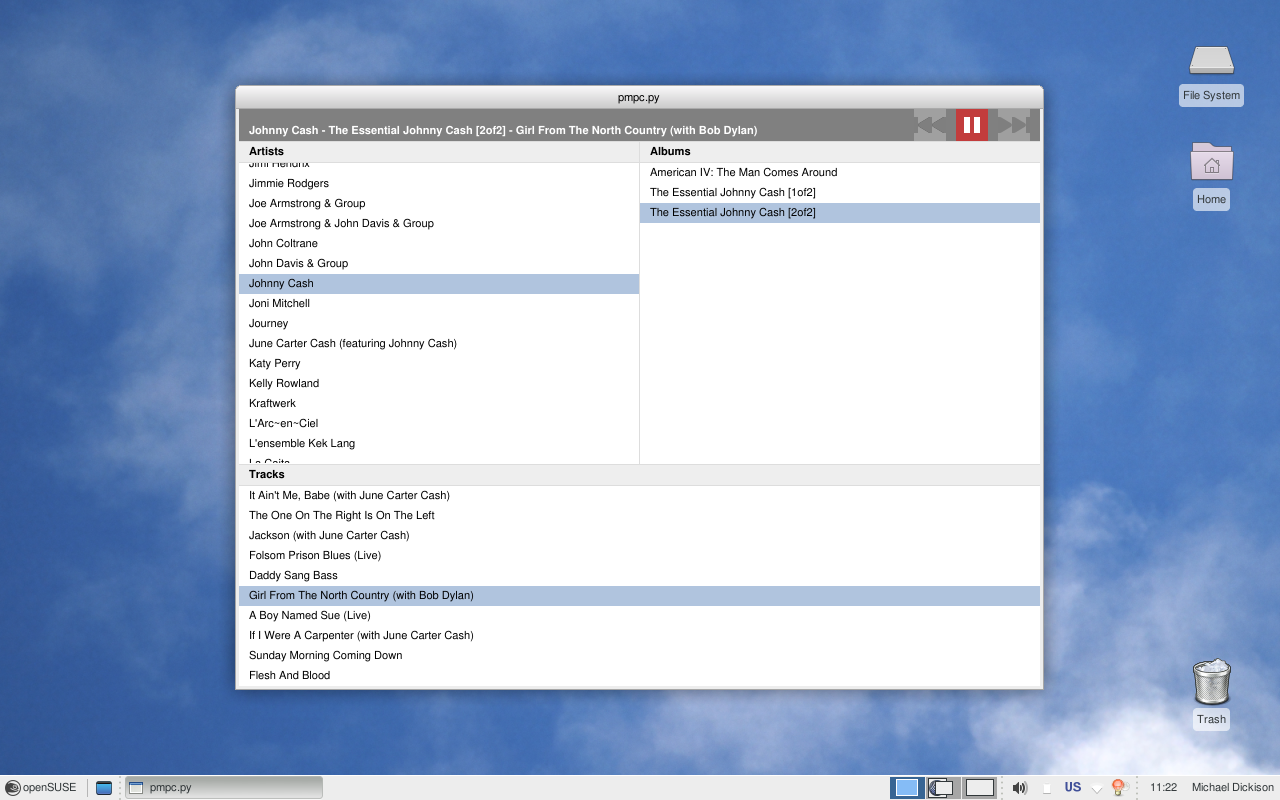
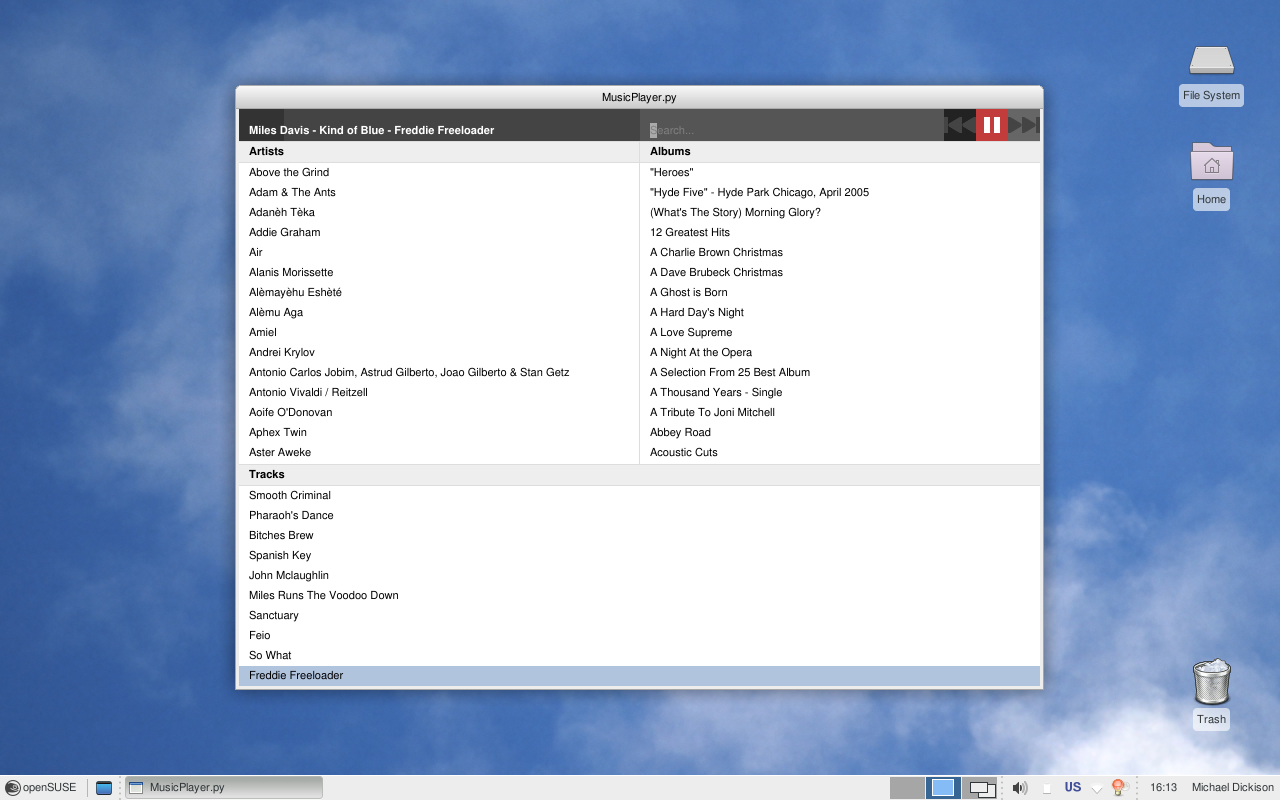
Added progress bar

Changed region(s): [[0.1875, 0.0938, 0.8125, 0.875], [0.6875, 0.9688, 0.7812, 1.0], [0.125, 0.9688, 0.1562, 1.0]]

diff --git a/Engine/MusicPlayer.qml b/Engine/MusicPlayer.qml
@@ -8,6 +8,12 @@ Column {
 		height: 32
 		color: '#444'
 		
+		Rectangle {
+			id: progressBar
+			height: topHeader.height
+			width: controller.songProgress * 400
+			color: '#333'
+		}
 		Text {
 			id: currentTrack
 			text: controller.currentSong

diff --git a/Engine/MusicPlayer.py b/Engine/MusicPlayer.py
@@ -3,7 +3,6 @@
 """
 To do:
 	- Set font and size (or set line height based on system font size).
-	- Show time left (align right?) (mpd.status()['time'] returns 'elapsed:duration')
 	- Reset filters. (Could be the first item in lists? Seems like the clean way to do it.)
 	- Sort better? (Unicode and 'The')
 	- Scrolling inertia is awfully heavy...
@@ -55,6 +54,7 @@ class MyController( QtCore.QObject ):
 	_currentSong = {}
 	appIsDone = False
 	onStateChanged = QtCore.Signal()
+	playProgress = QtCore.Signal()
 	
 	def doPolling( self ):
 		while not self.appIsDone:
@@ -62,6 +62,9 @@ class MyController( QtCore.QObject ):
 			if song != self._currentSong:
 				self._currentSong = song
 				self.onStateChanged.emit()	# Triggers QML updates (by QtCore)
+			self.status = mpd.status()
+			if( self.status['state'] == 'play' or self.status['state'] == 'pause' ):
+				self.playProgress.emit()
 			time.sleep( 1 )	# Wait one second
 	
 	def startPolling( self ):
@@ -117,7 +120,7 @@ class MyController( QtCore.QObject ):
 		mpd.next()
 		self.onStateChanged.emit()
 	def getState( self ):
-		return mpd.status()['state']
+		return self.status['state']
 	state = QtCore.Property( str, getState, notify=onStateChanged )
 	
 	# Search (filter)
@@ -137,6 +140,7 @@ class MyController( QtCore.QObject ):
 		self.onStateChanged.emit()	# Updates track list highlighting
 	
 	def resetLists( self ):
+		global tracks
 		artistsList.replaceData( mpd.list( 'AlbumArtist' ) )
 		albumsList.replaceData( mpd.list( 'Album' ) )
 		tracks = [ i for i in mpd.search( 'Artist', '' ) if extract_name(i) ]
@@ -145,6 +149,13 @@ class MyController( QtCore.QObject ):
 		self.artistsCopy = MyListModel( artistsList.list() )
 		self.albumsCopy = MyListModel( albumsList.list() )
 		self.tracksCopy = tracks
+
+	
+	#Progress bar
+	def private_getProgress( self ):
+		times = self.status['time'].split( ':' )
+		return str( float( times[0] ) / float( times[1] ) )
+	songProgress = QtCore.Property( str, private_getProgress, notify=playProgress )
 
 # Set up app (make accessible from QML)
 artistsList = MyListModel()	# Qt-compatible object
